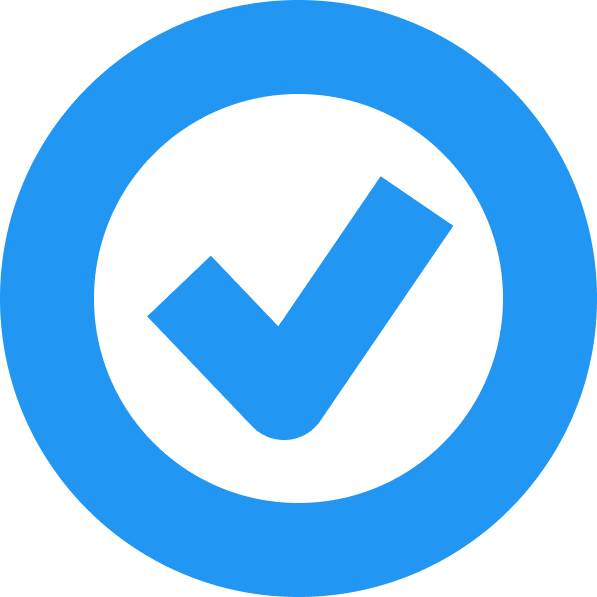
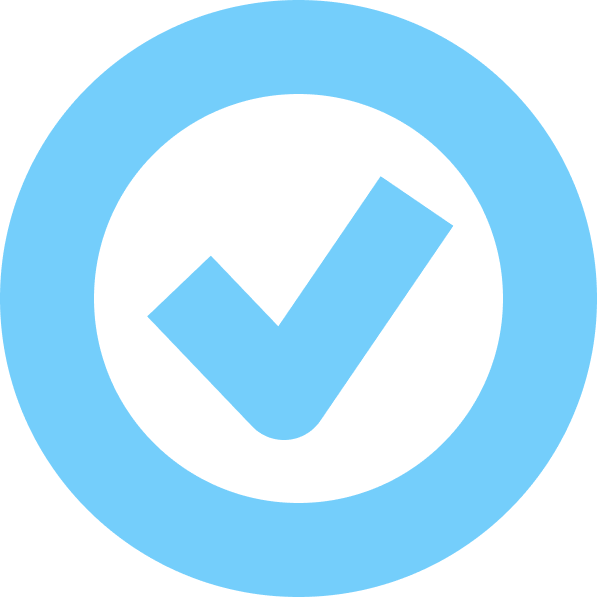
colors

diff --git a/style.css b/style.css
@@ -1,8 +1,8 @@
 :root {
-  --main-pink: #febfd7;
-  --sub-pink: #feb8d3;
-  --main-blue: #2196f3;
-  --sub-blue: #a1c7ff;
+  --main-pink: #fad4e3;
+  --sub-pink: #fce2ec;
+  --main-blue: #74cefb;
+  --sub-blue: #b0e3fc;
   --white: #fff;
 }
 
@@ -14,7 +14,7 @@
 }
 
 body {
-  background-color: #fddde9;
+  background-color: var(--sub-pink);
   height: 100vh;
 }
 
@@ -26,11 +26,12 @@ header {
   display: flex;
   justify-content: center;
   align-items: center;
+  height: 10vh;
 }
 
 header h1 {
   font-size: 3rem;
-  color: #febfd7;
+  color: var(--main-pink);
   text-shadow: 1px 1px 0px #170a06;
   padding-top: 2.5rem;
   position: relative;
@@ -50,11 +51,11 @@ header h1::before {
 .inputSection {
   position: fixed;
   bottom: 0;
-  padding: 1.5rem 2.5rem;
   width: 100%;
   display: flex;
   align-items: center;
   justify-content: center;
+  height: 20vh;
 }
 
 #mainInput {
@@ -81,16 +82,14 @@ header h1::before {
   margin-left: 10px;
   border: 3px var(--main-blue) solid;
   color: var(--main-blue);
-  background-color: var(--sub-blue);
   font-size: 1.4rem;
   text-shadow: 1.7px 2.3px 0px #170a06;
 }
 
 .listSection {
-  height: 73vh;
+  height: 65vh;
   width: 100%;
   overflow: auto;
-  /* background-color: red; */
   display: flex;
   flex-direction: column-reverse;
 }
@@ -106,6 +105,13 @@ header h1::before {
   flex-direction: row;
   cursor: pointer;
   position: relative;
+  transition: all 0.3s;
+  overflow: hidden;
+  z-index: 1;
+}
+
+.listWrap:active {
+  background-color: #74cefb;
 }
 
 /* to do list content div */
@@ -157,10 +163,12 @@ header h1::before {
   justify-content: space-evenly;
   padding: 5px;
   border-radius: 50%;
+  transition: all 0.4s;
 }
 
 .imageWrap:hover {
-  background-color: #d7d6d6;
+  background-color: var(--sub-blue);
+  transition: all 0.4s;
 }
 
 .circleIcon,
@@ -174,6 +182,7 @@ header h1::before {
 .closeIcon:hover {
   transform: scale(1.2);
   transition: 0.3s;
+  transform: rotate(90deg);
 }
 
 @media (max-width: 600px) {
@@ -186,11 +195,17 @@ header h1::before {
     height: 1px;
     width: 10rem;
   }
+  #mainInput {
+    max-width: 12rem;
+  }
   .addBtn {
     height: 3rem;
     width: 3rem;
     border-radius: 50%;
     margin-left: 15px;
     font-size: 1rem;
+  }
+  .inputSection {
+    padding: 0 1rem;
   }
 }
